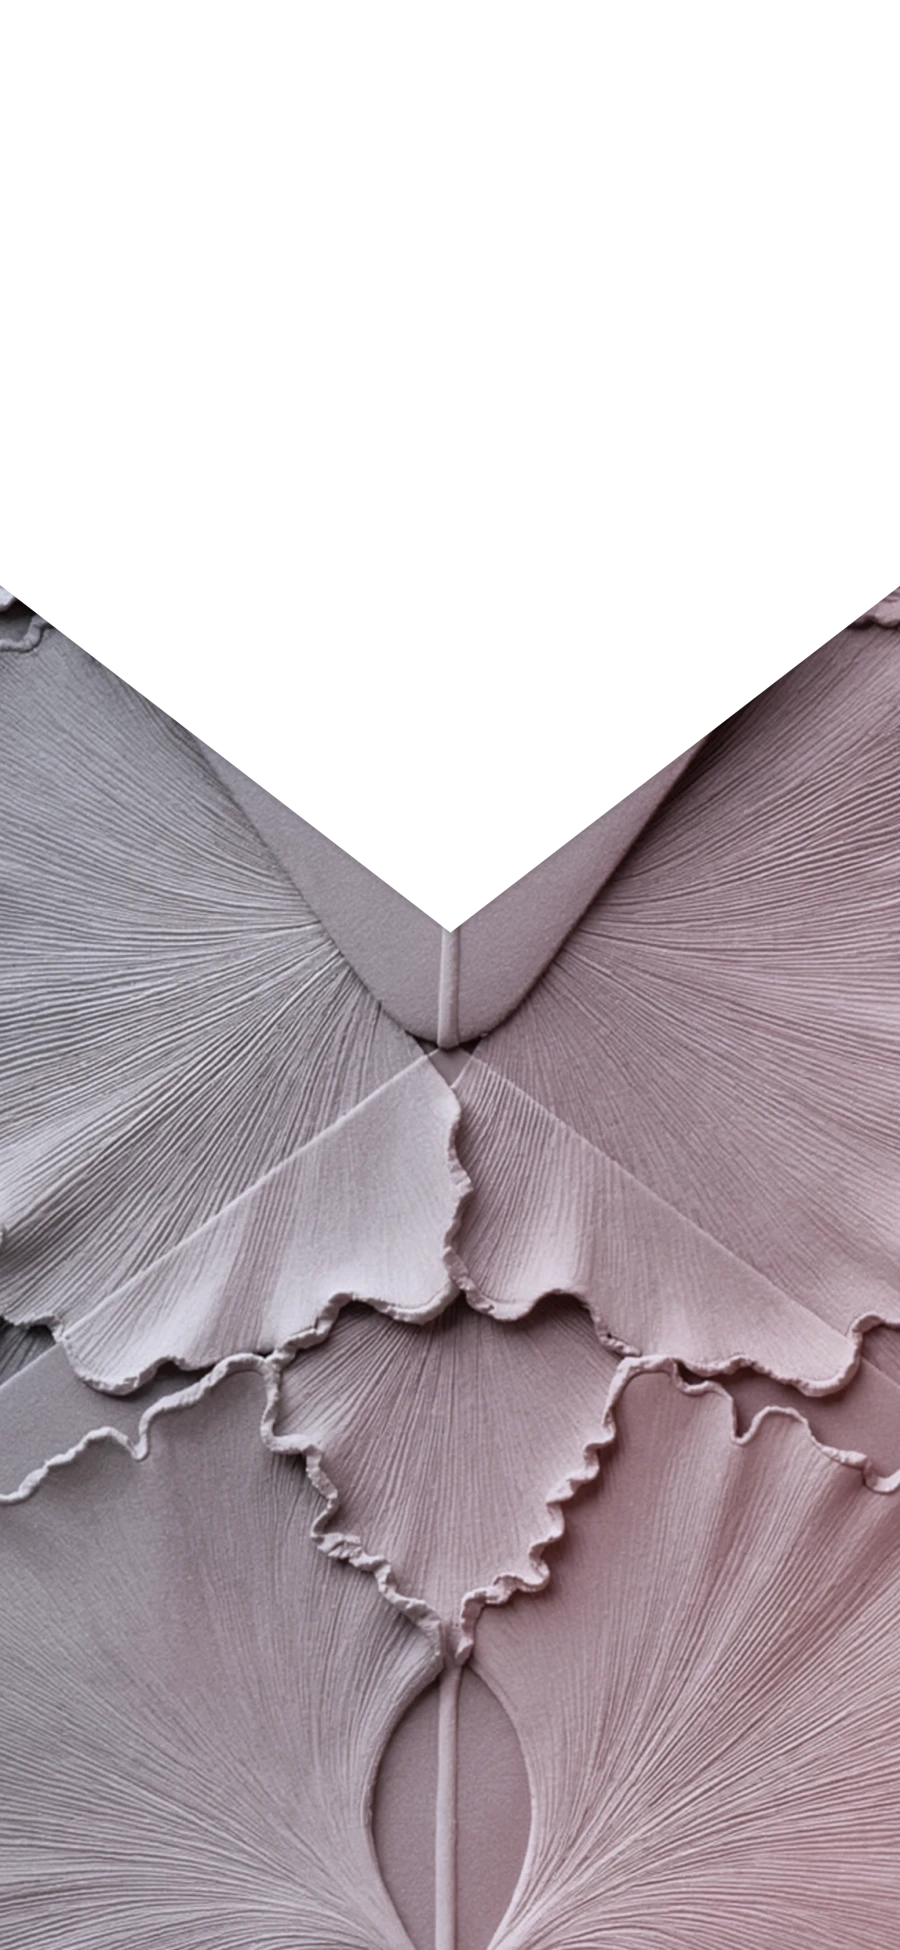
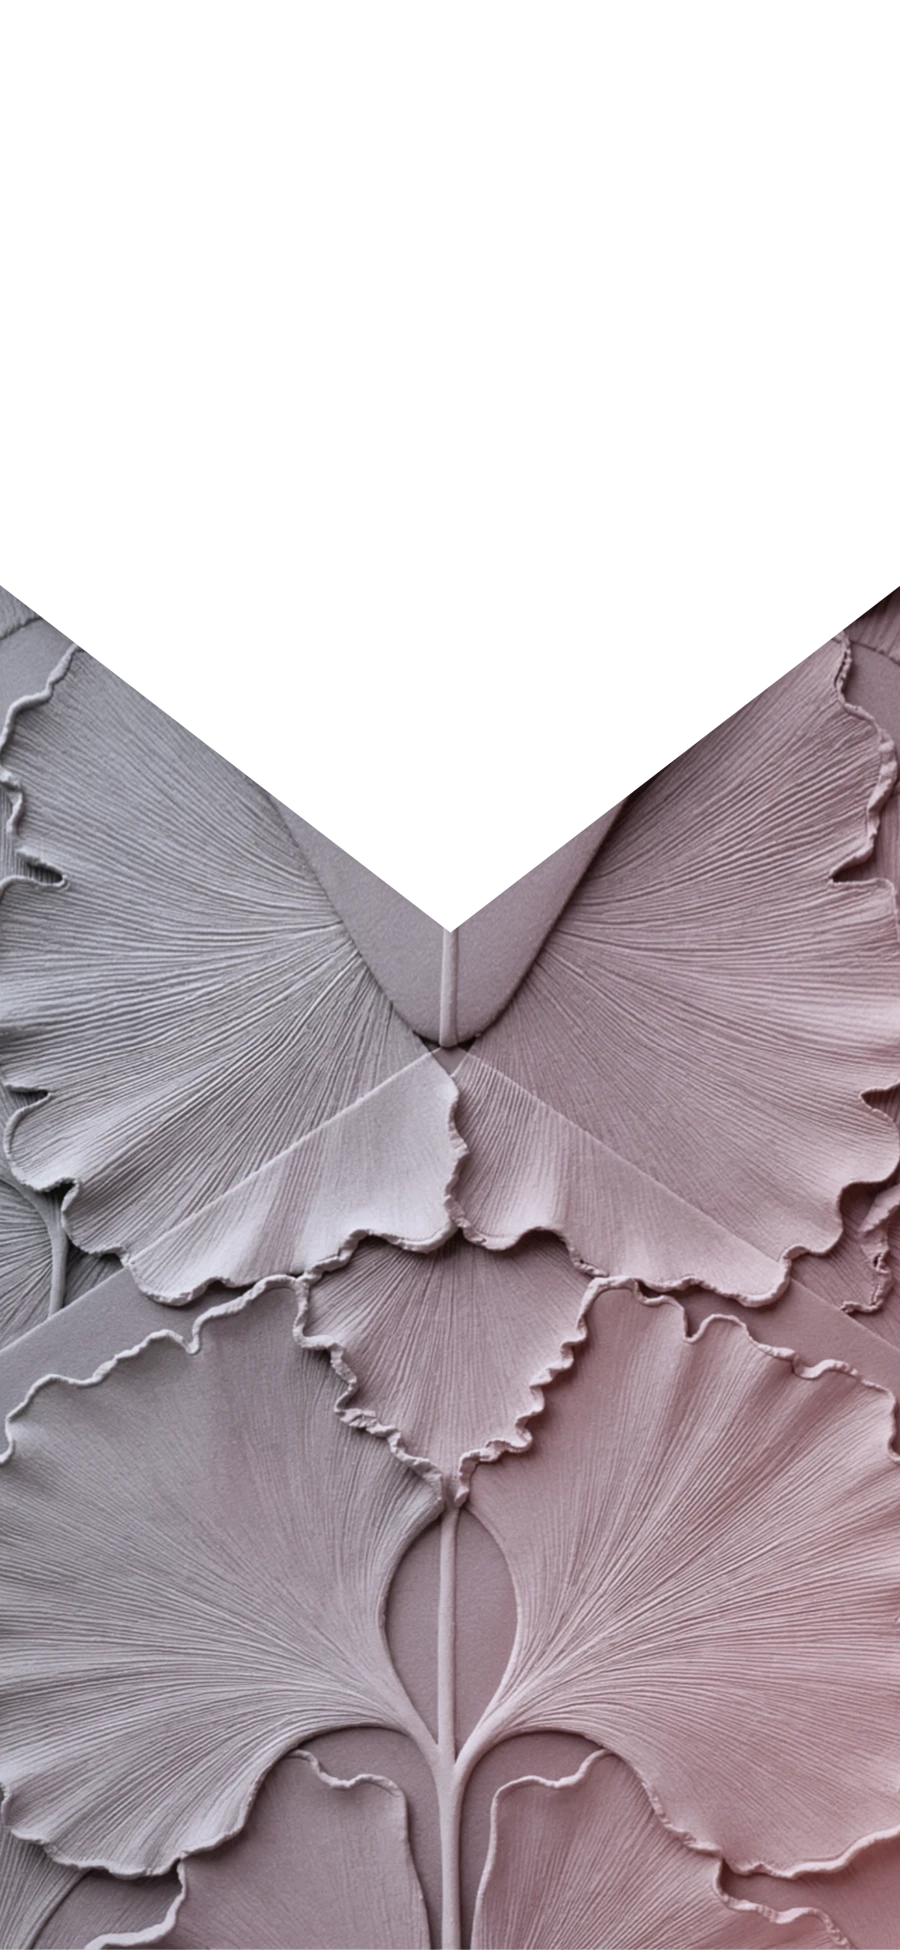
Website: cover A recut to show the whole design with the picture's own fold

diff --git a/Wedding Website/style.css b/Wedding Website/style.css
@@ -39,7 +39,7 @@ img { display: block; max-width: 100%; }
 /* ============ 1. card ============ */
 .card-sec { position: relative; width: 100%; height: 100svh; overflow: hidden; background: #b3a8b3; }
 .card-art { position: absolute; left: 50%; top: 50%; width: var(--aw); aspect-ratio: 900 / 1950; translate: -50% -50%;
-  --u: calc(var(--aw) / 100); background: url(assets/card.jpg?v=20261126c) center / 100% 100% no-repeat; }
+  --u: calc(var(--aw) / 100); background: url(assets/card.jpg?v=20261126d) center / 100% 100% no-repeat; }
 /* as the envelope opens, the wrapped card starts a little further back and comes forward */
 /* measured from the video: the card shows at about 0.8 of full size under the lifting flap, then drifts
    forward slowly and smoothly, reaching full size only as the bow comes undone (about 5 s after the tap) */
@@ -90,7 +90,7 @@ body.revealed .c-line:nth-child(8) { transition-delay: .24s; }
   box-shadow: inset 0 9px 14px -10px rgba(25,22,40,.65), inset 0 -6px 10px -8px rgba(25,22,40,.45);
   border-top: 1px solid rgba(235,228,240,.55);
 }
-.cd-sec::before { content: ""; position: absolute; inset: 0; background: url(assets/satin.jpg?v=20261126c) center / cover; mix-blend-mode: soft-light; opacity: .45; pointer-events: none; }
+.cd-sec::before { content: ""; position: absolute; inset: 0; background: url(assets/satin.jpg?v=20261126d) center / cover; mix-blend-mode: soft-light; opacity: .45; pointer-events: none; }
 .cd-title { position: relative; font-weight: 400; font-size: calc(var(--u) * 6.8); line-height: 1.1; letter-spacing: .015em; color: #e2dee6; margin-bottom: calc(var(--u) * 2.6); text-shadow: 0 1px 2px rgba(20,18,35,.35); }
 .ticket {
   position: relative; display: grid; grid-template-columns: repeat(4, 1fr); align-items: center;
@@ -104,7 +104,7 @@ body.revealed .c-line:nth-child(8) { transition-delay: .24s; }
 .cd-soon { position: relative; font-family: "Monsieur La Doulaise", "Pinyon Script", cursive; font-size: calc(var(--u) * 7.9); line-height: 1.15; margin-top: calc(var(--u) * 1.8); color: #ece8f0; -webkit-text-stroke: calc(var(--u) * .05) currentColor; text-shadow: 0 1px 1px rgba(25,20,40,.45); }
 
 /* ============ 3. pearl + scratch ============ */
-.pearl-sec { position: relative; width: 100%; aspect-ratio: 1 / 1; background: #988d99 url(assets/pearl.jpg?v=20261126c) center / cover; overflow: hidden;
+.pearl-sec { position: relative; width: 100%; aspect-ratio: 1 / 1; background: #988d99 url(assets/pearl.jpg?v=20261126d) center / cover; overflow: hidden;
   box-shadow: inset 0 1px 0 rgba(255,255,255,.22), inset 0 9px 12px -10px rgba(20,15,30,.55), inset 0 -1px 0 rgba(60,45,60,.25); }
 .pearl-frame { position: absolute; inset: 0; width: 100%; height: 100%; pointer-events: none; }
 .cameo {
@@ -151,7 +151,7 @@ body.revealed .c-line:nth-child(8) { transition-delay: .24s; }
 /* sheer organza wrap: opens from the centre as a diamond, pinched at both sides by the ribbon */
 /* the sheer sheet is larger than the card, so it still fills the corners while the card is set back */
 .wrap { position: absolute; inset: -14%; will-change: clip-path, opacity; }
-.wrap .org { position: absolute; inset: 0; background: url(assets/organza.webp?v=20261126c) center / 100% 100% no-repeat; }
+.wrap .org { position: absolute; inset: 0; background: url(assets/organza.webp?v=20261126d) center / 100% 100% no-repeat; }
 /* one seamless sheet; the diamond is cut out of it (even-odd clip), so there is no centre join */
 .folds { display: none; }
 /* the rolled, gathered edge of the fabric along each side of the diamond (four strips, laid along the edges by app.js; transform only) */
@@ -159,11 +159,11 @@ body.revealed .c-line:nth-child(8) { transition-delay: .24s; }
 .fold-clip.left { clip-path: inset(0 50% 0 0); }
 .fold-clip.right { clip-path: inset(0 0 0 50%); }
 .fold-edge { position: absolute; left: 0; top: 0; width: 100px; height: 11.5%; transform-origin: 0 0; opacity: 0; pointer-events: none;
-  background: url(assets/fold.webp?v=20261126c) center / 100% 100% no-repeat; will-change: transform, opacity; }
+  background: url(assets/fold.webp?v=20261126d) center / 100% 100% no-repeat; will-change: transform, opacity; }
 /* the bow on its band: numbered frames of the untie (the knot sits at the centre of the card) */
 .bow { position: absolute; left: 0; width: 100%; top: 37.949%; aspect-ratio: 900 / 720; pointer-events: none; user-select: none; will-change: opacity; }
 /* once the knot lets go: the two gathered band halves, each drawn aside with its pinch point */
-.band-half { position: absolute; top: 43.333%; height: 13.334%; width: 50%; background: url(assets/ribbon.webp?v=20261126c) no-repeat; background-size: 200% 100%;
+.band-half { position: absolute; top: 43.333%; height: 13.334%; width: 50%; background: url(assets/ribbon.webp?v=20261126d) no-repeat; background-size: 200% 100%;
   opacity: 0; pointer-events: none; will-change: transform, opacity; }
 .band-half.left { left: 0; background-position: left center; transform-origin: 0% 50%; }
 .band-half.right { right: 0; background-position: right center; transform-origin: 100% 50%; }
@@ -174,22 +174,22 @@ body.revealed .c-line:nth-child(8) { transition-delay: .24s; }
 #opening { perspective: none; }
 #envStage { perspective: calc(var(--ah) * 3.55); perspective-origin: 50% 0; }
 .env-box { position: absolute; left: 0; top: 0; width: 100%; height: 100%; transform-style: preserve-3d; }
-.env-body { position: absolute; inset: 0; will-change: transform; background: url(assets/envelope-body.webp?v=20261126c) center / 100% 100% no-repeat; }
+.env-body { position: absolute; inset: 0; will-change: transform; background: url(assets/envelope-body.webp?v=20261126d) center / 100% 100% no-repeat; }
 /* inside of the envelope: the wrapped card seen through the mouth, in the shadow of the lifting flap */
 .env-shadow { position: absolute; left: 0; right: 0; top: 0; height: 100%; opacity: 0; pointer-events: none;
   background: linear-gradient(180deg, rgba(30,19,28,.92), rgba(32,21,30,.80) 23%, rgba(36,24,34,.62) 42%, rgba(36,24,34,.5) 52%, rgba(36,24,34,.22) 66%, rgba(36,24,34,0) 82%); }
 .flap { position: absolute; left: 0; top: 0; width: 100%; height: 56%; transform-origin: 50% 0; transform-style: preserve-3d; z-index: 3; }
 .flap-face { position: absolute; inset: 0; background: center / 100% 100% no-repeat; backface-visibility: hidden; -webkit-backface-visibility: hidden; }
-.flap-face.front { background-image: url(assets/envelope-flap.webp?v=20261126c); }
+.flap-face.front { background-image: url(assets/envelope-flap.webp?v=20261126d); }
 /* the same flap, darkened: cross-fades in as the flap turns away from the light (opacity driven by JS) */
-.flap-face.dim { background-image: url(assets/envelope-flap-dim.webp?v=20261126c); opacity: 0; }
+.flap-face.dim { background-image: url(assets/envelope-flap-dim.webp?v=20261126d); opacity: 0; }
 /* soft shadow the closed flap casts on the envelope (lies on the envelope, fades as the flap lifts) */
 .flap-shadow { position: absolute; left: 0; top: 0; width: 100%; height: 59.08%; pointer-events: none;
-  background: url(assets/envelope-flap-shadow.webp?v=20261126c) center / 100% 100% no-repeat; }
-.flap-face.back { background-image: url(assets/envelope-flap-back.webp?v=20261126c); transform: rotateX(180deg); }
+  background: url(assets/envelope-flap-shadow.webp?v=20261126d) center / 100% 100% no-repeat; }
+.flap-face.back { background-image: url(assets/envelope-flap-back.webp?v=20261126d); transform: rotateX(180deg); }
 .seal {
   position: absolute; left: 50%; top: 51.3%; width: 37.8%; aspect-ratio: 600 / 720; transform: translate(-50%, -50%); z-index: 6;
-  background: url(assets/seal.webp?v=20261126c) center / 100% 100% no-repeat; border: 0; border-radius: 46%; padding: 0; cursor: pointer;
+  background: url(assets/seal.webp?v=20261126d) center / 100% 100% no-repeat; border: 0; border-radius: 46%; padding: 0; cursor: pointer;
   filter: drop-shadow(0 1px 1.5px rgba(30,16,26,.5)) drop-shadow(3px 7px 8px rgba(34,18,30,.62)) drop-shadow(6px 14px 18px rgba(34,18,30,.44)); transition: transform .25s ease;
   -webkit-tap-highlight-color: transparent; animation: sealGlow 2.8s ease-in-out infinite; transform-origin: 50% 50%;
 }

diff --git a/Wedding Website/index - cover B.html b/Wedding Website/index - cover B.html
@@ -8,10 +8,10 @@
 <link rel="preconnect" href="https://fonts.googleapis.com">
 <link rel="preconnect" href="https://fonts.gstatic.com" crossorigin>
 <link rel="stylesheet" href="https://fonts.googleapis.com/css2?family=Cormorant+Garamond:ital,wght@0,400;0,500;0,600;0,700;1,400&family=Monsieur+La+Doulaise&family=Pinyon+Script&family=Jost:wght@300;400&display=swap">
-<link rel="preload" as="image" href="assets/envelope-body.webp?v=20261126c">
-<link rel="preload" as="image" href="assets/envelope-flap.webp?v=20261126c">
-<link rel="preload" as="image" href="assets/seal.webp?v=20261126c">
-<link rel="stylesheet" href="style.css?v=20261126c">
+<link rel="preload" as="image" href="assets/envelope-body.webp?v=20261126d">
+<link rel="preload" as="image" href="assets/envelope-flap.webp?v=20261126d">
+<link rel="preload" as="image" href="assets/seal.webp?v=20261126d">
+<link rel="stylesheet" href="style.css?v=20261126d">
 <style>/* version B: the second cover artwork */
 .env-body { background-image: url(assets/cover-b/envelope-body.webp?v=2); }
 .flap-face.front { background-image: url(assets/cover-b/envelope-flap.webp?v=2); }
@@ -70,7 +70,7 @@
       <p class="loc-venue reveal" data-k="venue"></p>
       <p class="loc-place reveal" data-k="place"></p>
       <div class="loc-text reveal" id="locText"></div>
-      <img class="loc-sketch reveal" src="assets/venue-sketch.webp?v=20261126c" alt="Sketch of the venue">
+      <img class="loc-sketch reveal" src="assets/venue-sketch.webp?v=20261126d" alt="Sketch of the venue">
       <a class="btn-dir reveal" id="dirBtn" target="_blank" rel="noopener"></a>
       <p class="foot reveal" data-k="footer"></p>
     </section>
@@ -83,7 +83,7 @@
       <div class="wrap half left"><div class="org"></div></div>
       <div class="band-half left"></div>
       <div class="band-half right"></div>
-      <img class="bow" id="bowImg" src="assets/bow/bow-00.webp?v=20261126c" alt="" draggable="false">
+      <img class="bow" id="bowImg" src="assets/bow/bow-00.webp?v=20261126d" alt="" draggable="false">
     </div>
     <!-- envelope (drawn at its true proportions; the screen shows a centred close-up of it) -->
     <div class="cover-box" id="envStage">
@@ -108,7 +108,7 @@
   </button>
   <audio id="music" loop preload="auto"></audio>
 </div>
-<script src="config.js?v=20261126c"></script>
-<script src="app.js?v=20261126c"></script>
+<script src="config.js?v=20261126d"></script>
+<script src="app.js?v=20261126d"></script>
 </body>
 </html>

diff --git a/Wedding Website/index.html b/Wedding Website/index.html
@@ -8,10 +8,10 @@
 <link rel="preconnect" href="https://fonts.googleapis.com">
 <link rel="preconnect" href="https://fonts.gstatic.com" crossorigin>
 <link rel="stylesheet" href="https://fonts.googleapis.com/css2?family=Cormorant+Garamond:ital,wght@0,400;0,500;0,600;0,700;1,400&family=Monsieur+La+Doulaise&family=Pinyon+Script&family=Jost:wght@300;400&display=swap">
-<link rel="preload" as="image" href="assets/envelope-body.webp?v=20261126c">
-<link rel="preload" as="image" href="assets/envelope-flap.webp?v=20261126c">
-<link rel="preload" as="image" href="assets/seal.webp?v=20261126c">
-<link rel="stylesheet" href="style.css?v=20261126c">
+<link rel="preload" as="image" href="assets/envelope-body.webp?v=20261126d">
+<link rel="preload" as="image" href="assets/envelope-flap.webp?v=20261126d">
+<link rel="preload" as="image" href="assets/seal.webp?v=20261126d">
+<link rel="stylesheet" href="style.css?v=20261126d">
 </head>
 <body class="locked">
 <div id="app">
@@ -63,7 +63,7 @@
       <p class="loc-venue reveal" data-k="venue"></p>
       <p class="loc-place reveal" data-k="place"></p>
       <div class="loc-text reveal" id="locText"></div>
-      <img class="loc-sketch reveal" src="assets/venue-sketch.webp?v=20261126c" alt="Sketch of the venue">
+      <img class="loc-sketch reveal" src="assets/venue-sketch.webp?v=20261126d" alt="Sketch of the venue">
       <a class="btn-dir reveal" id="dirBtn" target="_blank" rel="noopener"></a>
       <p class="foot reveal" data-k="footer"></p>
     </section>
@@ -76,7 +76,7 @@
       <div class="wrap half left"><div class="org"></div></div>
       <div class="band-half left"></div>
       <div class="band-half right"></div>
-      <img class="bow" id="bowImg" src="assets/bow/bow-00.webp?v=20261126c" alt="" draggable="false">
+      <img class="bow" id="bowImg" src="assets/bow/bow-00.webp?v=20261126d" alt="" draggable="false">
     </div>
     <!-- envelope (drawn at its true proportions; the screen shows a centred close-up of it) -->
     <div class="cover-box" id="envStage">
@@ -101,7 +101,7 @@
   </button>
   <audio id="music" loop preload="auto"></audio>
 </div>
-<script src="config.js?v=20261126c"></script>
-<script src="app.js?v=20261126c"></script>
+<script src="config.js?v=20261126d"></script>
+<script src="app.js?v=20261126d"></script>
 </body>
 </html>

diff --git a/Wedding Website/app.js b/Wedding Website/app.js
@@ -87,7 +87,7 @@
   const op = $("#opening");
   const BOW_FRAMES = 34;
   const bowImg = $("#bowImg");
-  const bowSrc = i => `assets/bow/bow-${String(i).padStart(2, "0")}.webp?v=20261126c`;
+  const bowSrc = i => `assets/bow/bow-${String(i).padStart(2, "0")}.webp?v=20261126d`;
   const bowCache = [];
   for (let i = 0; i < BOW_FRAMES; i++) { const im = new Image(); im.src = bowSrc(i); bowCache.push(im); }   // preload while the envelope is shown
   const halfL = $(".wrap.half.left"), wrapBox = $("#wrapBox"), envStage = $("#envStage");
@@ -203,7 +203,7 @@
   }
   document.documentElement.classList.add("locked");
   (function firstPaint() {
-    const urls = ["assets/envelope-body.webp?v=20261126c", "assets/envelope-flap.webp?v=20261126c", "assets/seal.webp?v=20261126c"];
+    const urls = ["assets/envelope-body.webp?v=20261126d", "assets/envelope-flap.webp?v=20261126d", "assets/seal.webp?v=20261126d"];
     const done = () => body.classList.add("ready");
     Promise.all(urls.map(u => new Promise(r => { const im = new Image(); im.onload = im.onerror = r; im.src = u; }))).then(done);
     setTimeout(done, 3000);
